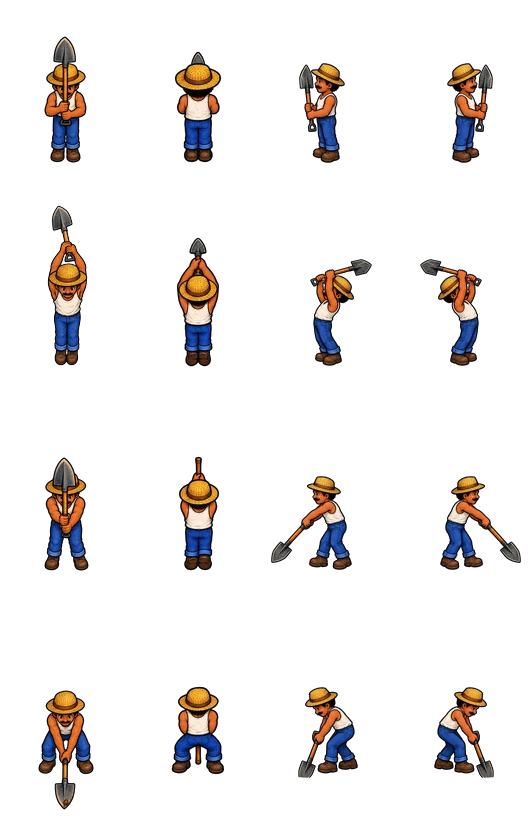
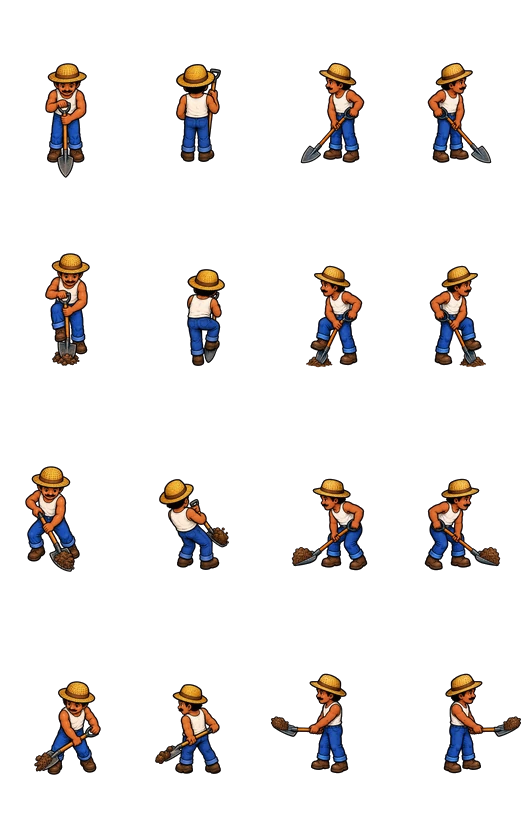
Jocelino (web, JavaScript): 9006298 Teste de 12/10: a pá cava ("ele está batendo com ela, a ideia é cavar"): folha nova do Higgsfield nas 3 direções — a lâmina no chão, o pé empurrando, a alavanca com a terra e a terra

diff --git a/frontend/public/jocelino/index.html b/frontend/public/jocelino/index.html
@@ -6,7 +6,7 @@
 <title>Família Santos: Tijolo e Tempero</title>
 <link rel="preconnect" href="https://fonts.googleapis.com">
 <link href="https://fonts.googleapis.com/css2?family=Fredoka:wght@500;600;700&family=Nunito:wght@500;700;800;900&display=swap" rel="stylesheet">
-<link rel="stylesheet" href="css/estilo.css?v=ef1fa6c">
+<link rel="stylesheet" href="css/estilo.css?v=9006298">
 </head>
 <body>
 <canvas id="tela"></canvas>
@@ -15,79 +15,79 @@
 <div id="modal" hidden></div>
 <div id="capa" hidden></div>
 <!-- Ordem importa: cada arquivo usa os de cima (scripts globais, como no Lenda; sem compilação). -->
-<script src="js/base.js?v=ef1fa6c"></script>
-<script src="js/arte.js?v=ef1fa6c"></script>
-<script src="js/arte_lista.js?v=ef1fa6c"></script>
-<script src="js/sons.js?v=ef1fa6c"></script>
-<script src="js/dados.js?v=ef1fa6c"></script>
-<script src="js/pratos.js?v=ef1fa6c"></script>
-<script src="js/receitas.js?v=ef1fa6c"></script>
-<script src="js/economia.js?v=ef1fa6c"></script>
-<script src="js/pensao.js?v=ef1fa6c"></script>
-<script src="js/turno_janta.js?v=ef1fa6c"></script>
-<script src="js/mochila.js?v=ef1fa6c"></script>
-<script src="js/ui.js?v=ef1fa6c"></script>
-<script src="js/entrada.js?v=ef1fa6c"></script>
-<script src="js/mapas.js?v=ef1fa6c"></script>
-<script src="js/personagens.js?v=ef1fa6c"></script>
-<script src="js/vida.js?v=ef1fa6c"></script>
-<script src="js/mapa_quintal.js?v=ef1fa6c"></script>
-<script src="js/mapa_vila.js?v=ef1fa6c"></script>
-<script src="js/mapa_pensao.js?v=ef1fa6c"></script>
-<script src="js/ferramentas.js?v=ef1fa6c"></script>
-<script src="js/loja.js?v=ef1fa6c"></script>
-<script src="js/hud.js?v=ef1fa6c"></script>
-<script src="js/dia.js?v=ef1fa6c"></script>
-<script src="js/correio.js?v=ef1fa6c"></script>
-<script src="js/habilidades.js?v=ef1fa6c"></script>
-<script src="js/mundo.js?v=ef1fa6c"></script>
-<script src="js/mapa_praia.js?v=ef1fa6c"></script>
-<script src="js/mapa_mata.js?v=ef1fa6c"></script>
-<script src="js/mapa_pedreira.js?v=ef1fa6c"></script>
-<script src="js/clima.js?v=ef1fa6c"></script>
-<script src="js/achados.js?v=ef1fa6c"></script>
-<script src="js/radio.js?v=ef1fa6c"></script>
-<script src="js/caixa_venda.js?v=ef1fa6c"></script>
-<script src="js/obra.js?v=ef1fa6c"></script>
-<script src="js/obra_jogo.js?v=ef1fa6c"></script>
-<script src="js/empreitas.js?v=ef1fa6c"></script>
-<script src="js/empreitas_jogo.js?v=ef1fa6c"></script>
-<script src="js/ferreiro.js?v=ef1fa6c"></script>
-<script src="js/equipe_obra.js?v=ef1fa6c"></script>
-<script src="js/horta.js?v=ef1fa6c"></script>
-<script src="js/horta_jogo.js?v=ef1fa6c"></script>
-<script src="js/quintal_coisas.js?v=ef1fa6c"></script>
-<script src="js/pesca.js?v=ef1fa6c"></script>
-<script src="js/pesca_jogo.js?v=ef1fa6c"></script>
-<script src="js/mapa_alto_mar.js?v=ef1fa6c"></script>
-<script src="js/mina.js?v=ef1fa6c"></script>
-<script src="js/mina_jogo.js?v=ef1fa6c"></script>
-<script src="js/fabricar.js?v=ef1fa6c"></script>
-<script src="js/prefeitura.js?v=ef1fa6c"></script>
-<script src="js/bairro.js?v=ef1fa6c"></script>
-<script src="js/bairro_jogo.js?v=ef1fa6c"></script>
-  <script src="js/casa_familia.js?v=ef1fa6c"></script>
-  <script src="js/bazar.js?v=ef1fa6c"></script>
-<script src="js/pensao_tela.js?v=ef1fa6c"></script>
-<script src="js/palco.js?v=ef1fa6c"></script>
-<script src="js/reforma_palco.js?v=ef1fa6c"></script>
-<script src="js/caderno.js?v=ef1fa6c"></script>
-<script src="js/despensa.js?v=ef1fa6c"></script>
-<script src="js/chef.js?v=ef1fa6c"></script>
-<script src="js/equipe.js?v=ef1fa6c"></script>
-<script src="js/melhorias.js?v=ef1fa6c"></script>
-<script src="js/eventos.js?v=ef1fa6c"></script>
-<script src="js/clientela.js?v=ef1fa6c"></script>
-<script src="js/concurso.js?v=ef1fa6c"></script>
-<script src="js/ampliacao.js?v=ef1fa6c"></script>
-<script src="js/metas.js?v=ef1fa6c"></script>
-<script src="js/fechamento.js?v=ef1fa6c"></script>
-<script src="js/falas.js?v=ef1fa6c"></script>
-<script src="js/guia.js?v=ef1fa6c"></script>
-<script src="js/guia_setas.js?v=ef1fa6c"></script>
-<script src="js/mapa_tela.js?v=ef1fa6c"></script>
-<script src="js/opcoes.js?v=ef1fa6c"></script>
-<script src="js/caixa_preta.js?v=ef1fa6c"></script>
-<script src="js/jogo.js?v=ef1fa6c"></script>
+<script src="js/base.js?v=9006298"></script>
+<script src="js/arte.js?v=9006298"></script>
+<script src="js/arte_lista.js?v=9006298"></script>
+<script src="js/sons.js?v=9006298"></script>
+<script src="js/dados.js?v=9006298"></script>
+<script src="js/pratos.js?v=9006298"></script>
+<script src="js/receitas.js?v=9006298"></script>
+<script src="js/economia.js?v=9006298"></script>
+<script src="js/pensao.js?v=9006298"></script>
+<script src="js/turno_janta.js?v=9006298"></script>
+<script src="js/mochila.js?v=9006298"></script>
+<script src="js/ui.js?v=9006298"></script>
+<script src="js/entrada.js?v=9006298"></script>
+<script src="js/mapas.js?v=9006298"></script>
+<script src="js/personagens.js?v=9006298"></script>
+<script src="js/vida.js?v=9006298"></script>
+<script src="js/mapa_quintal.js?v=9006298"></script>
+<script src="js/mapa_vila.js?v=9006298"></script>
+<script src="js/mapa_pensao.js?v=9006298"></script>
+<script src="js/ferramentas.js?v=9006298"></script>
+<script src="js/loja.js?v=9006298"></script>
+<script src="js/hud.js?v=9006298"></script>
+<script src="js/dia.js?v=9006298"></script>
+<script src="js/correio.js?v=9006298"></script>
+<script src="js/habilidades.js?v=9006298"></script>
+<script src="js/mundo.js?v=9006298"></script>
+<script src="js/mapa_praia.js?v=9006298"></script>
+<script src="js/mapa_mata.js?v=9006298"></script>
+<script src="js/mapa_pedreira.js?v=9006298"></script>
+<script src="js/clima.js?v=9006298"></script>
+<script src="js/achados.js?v=9006298"></script>
+<script src="js/radio.js?v=9006298"></script>
+<script src="js/caixa_venda.js?v=9006298"></script>
+<script src="js/obra.js?v=9006298"></script>
+<script src="js/obra_jogo.js?v=9006298"></script>
+<script src="js/empreitas.js?v=9006298"></script>
+<script src="js/empreitas_jogo.js?v=9006298"></script>
+<script src="js/ferreiro.js?v=9006298"></script>
+<script src="js/equipe_obra.js?v=9006298"></script>
+<script src="js/horta.js?v=9006298"></script>
+<script src="js/horta_jogo.js?v=9006298"></script>
+<script src="js/quintal_coisas.js?v=9006298"></script>
+<script src="js/pesca.js?v=9006298"></script>
+<script src="js/pesca_jogo.js?v=9006298"></script>
+<script src="js/mapa_alto_mar.js?v=9006298"></script>
+<script src="js/mina.js?v=9006298"></script>
+<script src="js/mina_jogo.js?v=9006298"></script>
+<script src="js/fabricar.js?v=9006298"></script>
+<script src="js/prefeitura.js?v=9006298"></script>
+<script src="js/bairro.js?v=9006298"></script>
+<script src="js/bairro_jogo.js?v=9006298"></script>
+  <script src="js/casa_familia.js?v=9006298"></script>
+  <script src="js/bazar.js?v=9006298"></script>
+<script src="js/pensao_tela.js?v=9006298"></script>
+<script src="js/palco.js?v=9006298"></script>
+<script src="js/reforma_palco.js?v=9006298"></script>
+<script src="js/caderno.js?v=9006298"></script>
+<script src="js/despensa.js?v=9006298"></script>
+<script src="js/chef.js?v=9006298"></script>
+<script src="js/equipe.js?v=9006298"></script>
+<script src="js/melhorias.js?v=9006298"></script>
+<script src="js/eventos.js?v=9006298"></script>
+<script src="js/clientela.js?v=9006298"></script>
+<script src="js/concurso.js?v=9006298"></script>
+<script src="js/ampliacao.js?v=9006298"></script>
+<script src="js/metas.js?v=9006298"></script>
+<script src="js/fechamento.js?v=9006298"></script>
+<script src="js/falas.js?v=9006298"></script>
+<script src="js/guia.js?v=9006298"></script>
+<script src="js/guia_setas.js?v=9006298"></script>
+<script src="js/mapa_tela.js?v=9006298"></script>
+<script src="js/opcoes.js?v=9006298"></script>
+<script src="js/caixa_preta.js?v=9006298"></script>
+<script src="js/jogo.js?v=9006298"></script>
 </body>
 </html>

diff --git a/frontend/public/jocelino/css/estilo.css b/frontend/public/jocelino/css/estilo.css
@@ -160,7 +160,7 @@ body.no-palco #avisos { top: 96px; bottom: auto; max-width: min(560px, 44vw); }
 /* O caderno de receitas da Rosa: duas páginas por cima da arte a/ui/caderno_aberto (sem a arte, um painel de papel). */
 .caderno { position: relative; width: min(94vw, 1400px); aspect-ratio: 14 / 9; max-height: 92vh; color: #3b2a1a; font-family: Nunito, sans-serif;
   background: #f3e6c8; border: 6px solid #6b3f22; border-radius: 10px; display: grid; grid-template-columns: 1fr 1fr; gap: 4%; padding: 3% 4%; box-sizing: border-box; }
-.caderno.com-arte { background: url(../a/ui/caderno_aberto.webp?v=ef1fa6c) center / 100% 100% no-repeat; border: 0; padding: 0; display: block; }
+.caderno.com-arte { background: url(../a/ui/caderno_aberto.webp?v=9006298) center / 100% 100% no-repeat; border: 0; padding: 0; display: block; }
 /* As páginas dentro do papel desenhado (retângulos úteis medidos em a/ui/LEIA.txt, em % de 1400x878). */
 .caderno.com-arte .pagina { position: absolute; overflow-y: auto; }
 .caderno.com-arte .pagina.esq { left: 18.5%; top: 5.5%; width: 30%; height: 74%; }
@@ -207,7 +207,7 @@ body.no-palco #avisos { top: 96px; bottom: auto; max-width: min(560px, 44vw); }
 
 /* A despensa viva e o orelhão. */
 .despensa { width: min(94vw, 1300px); max-height: 92vh; overflow-y: auto; background: #f3e6c8; border: 6px solid #6b3f22; border-radius: 10px; padding: 18px 24px; box-sizing: border-box; color: #3b2a1a; }
-.despensa.com-arte { background: url(../a/ui/despensa_prateleiras.webp?v=ef1fa6c) center / 100% 100% no-repeat, transparent; border: 0; aspect-ratio: 13 / 8.5; max-height: 88vh; overflow: hidden;
+.despensa.com-arte { background: url(../a/ui/despensa_prateleiras.webp?v=9006298) center / 100% 100% no-repeat, transparent; border: 0; aspect-ratio: 13 / 8.5; max-height: 88vh; overflow: hidden;
   padding: 5% 18% 7% 18%; color: #fff4dc; text-shadow: 0 2px 2px #000a; display: flex; flex-direction: column; }
 .despensa.com-arte .desp-prateleiras { overflow-y: auto; flex: 1; grid-template-columns: repeat(auto-fill, minmax(112px, 1fr)); gap: 8px; }
 .despensa.com-arte .desp-item { background: rgba(28,14,5,.82); border: 2px solid rgba(255,220,160,.25); }
